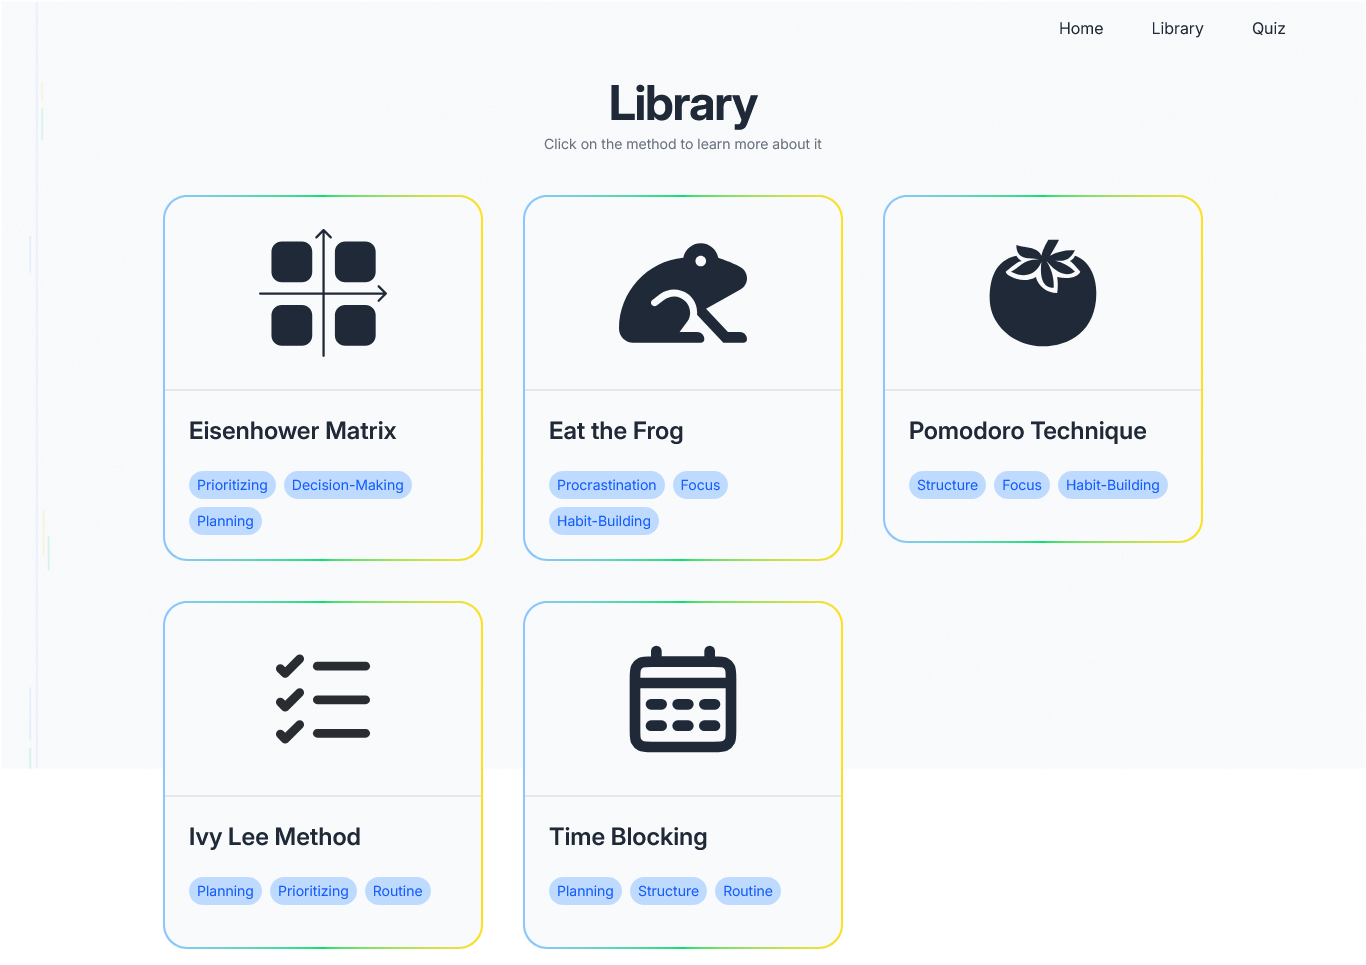
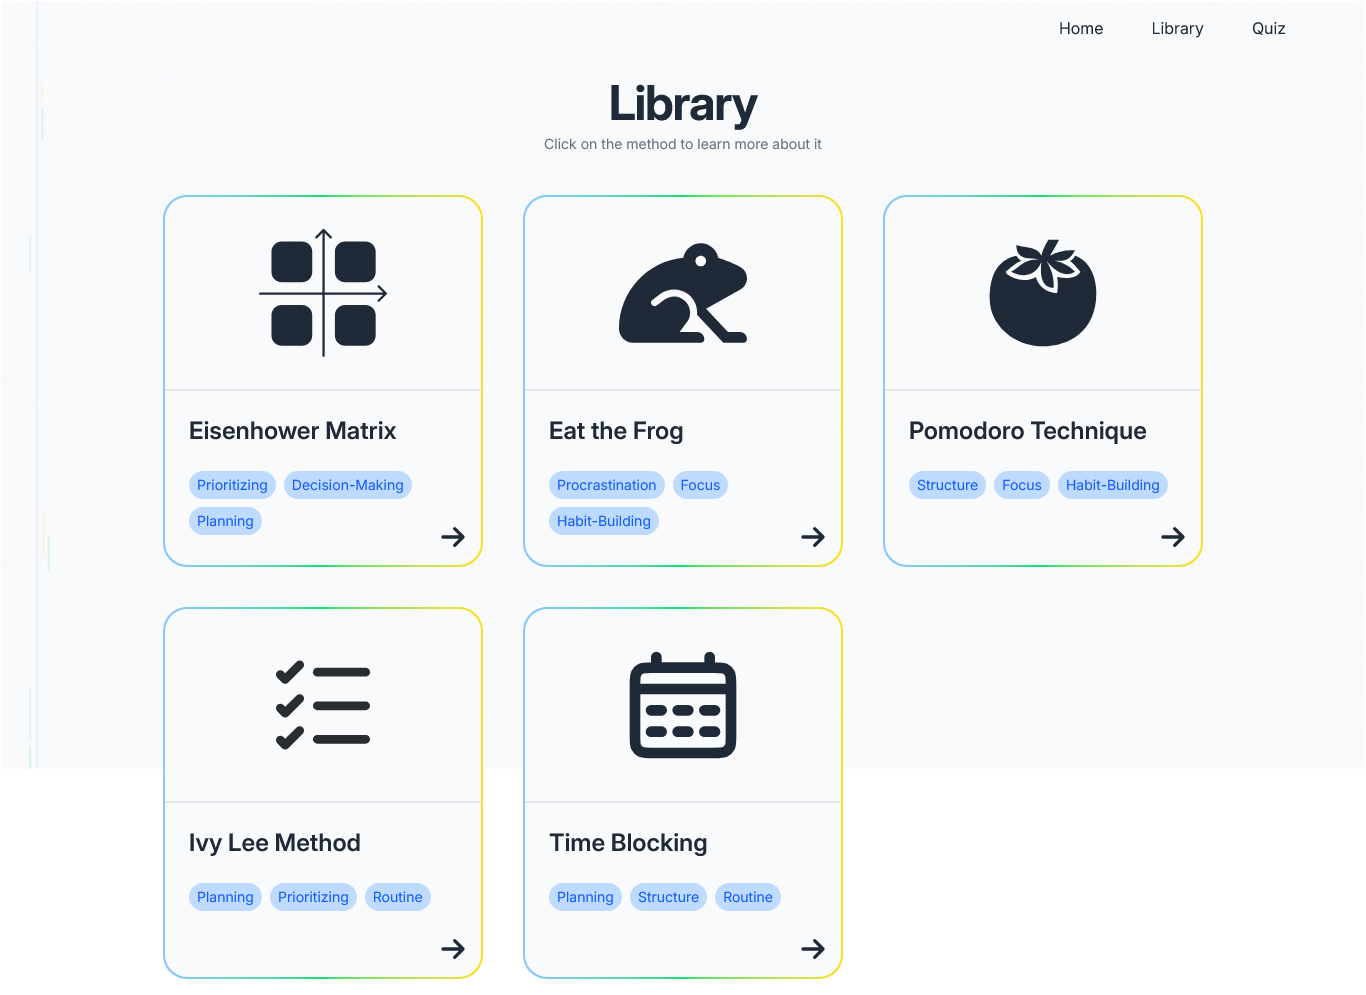
style: UI adjustments

diff --git a/src/components/MethodCard.tsx b/src/components/MethodCard.tsx
@@ -1,4 +1,5 @@
 import { ProductivityMethod } from "../definitions";
+import arrowRight from "/src/assets/arrow-right.svg";
 
 interface MethodCardProps {
   method: ProductivityMethod;
@@ -6,8 +7,8 @@ interface MethodCardProps {
 
 export default function MethodCard({ method }: MethodCardProps) {
   return (
-    <div className="main-gradient p-[2px] rounded-3xl w-80 hover:shadow-[0px_4px_14px_0_rgba(147,197,253,.70)] transition-all">
-      <div className="bg-gray-50 rounded-[1.4rem] cursor-pointer w-full min-h-86 flex flex-col">
+    <div className="main-gradient p-[2px] rounded-3xl w-80 min-h-86 hover:shadow-[0px_4px_14px_0_rgba(147,197,253,.70)] transition-all">
+      <div className="bg-gray-50 rounded-[1.4rem] cursor-pointer w-full min-h-92 flex flex-col relative">
         <div className="h-48 flex items-center justify-center p-4">
           <img
             src={method.icon}
@@ -29,6 +30,11 @@ export default function MethodCard({ method }: MethodCardProps) {
             ))}
           </ul>
         </div>
+        <img
+          src={arrowRight}
+          alt="arrow-right"
+          className="h-10 w-10 absolute bottom-2 right-2"
+        />
       </div>
     </div>
   );

diff --git a/src/layout/MainLayout.tsx b/src/layout/MainLayout.tsx
@@ -6,10 +6,10 @@ import { useState } from "react";
 export default function MainLayout() {
   const [sidebarOpen, setSidebarOpen] = useState<boolean>(false);
   return (
-    <div>
+    <div className="flex flex-col min-h-screen">
       <Navbar onMenuClick={() => setSidebarOpen(true)} />
       <Sidebar isOpen={sidebarOpen} onClose={() => setSidebarOpen(false)} />
-      <main className="flex flex-col justify-center items-center text-center min-h-[calc(100vh-72px)] md:min-h-[calc(100vh-56px)] px-10 my-4 gap-10">
+      <main className="flex-1 flex flex-col justify-center items-center text-center px-10 my-4 gap-10">
         <Outlet />
       </main>
     </div>
